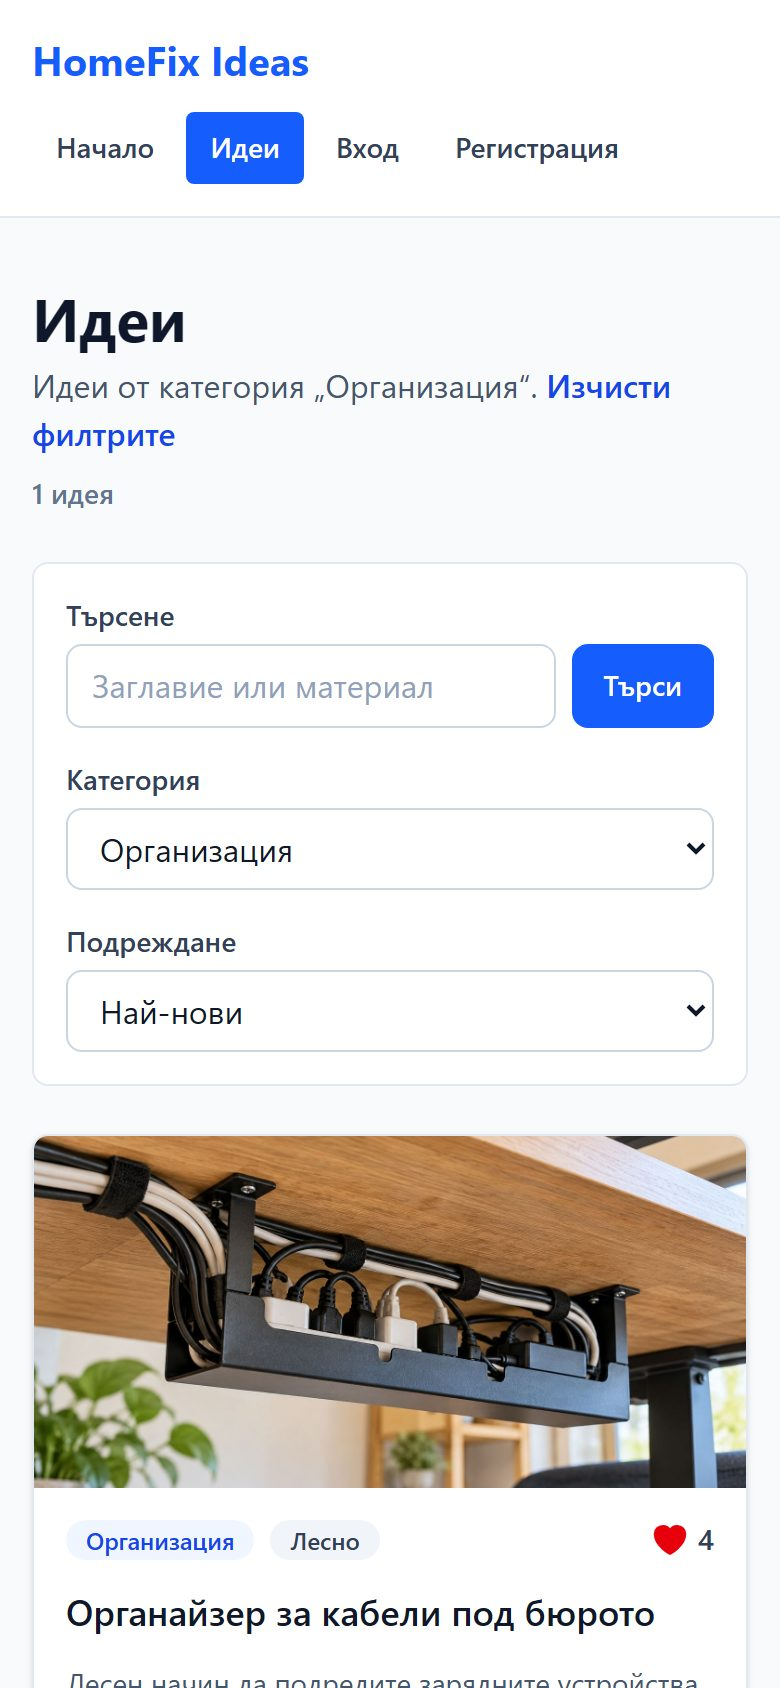
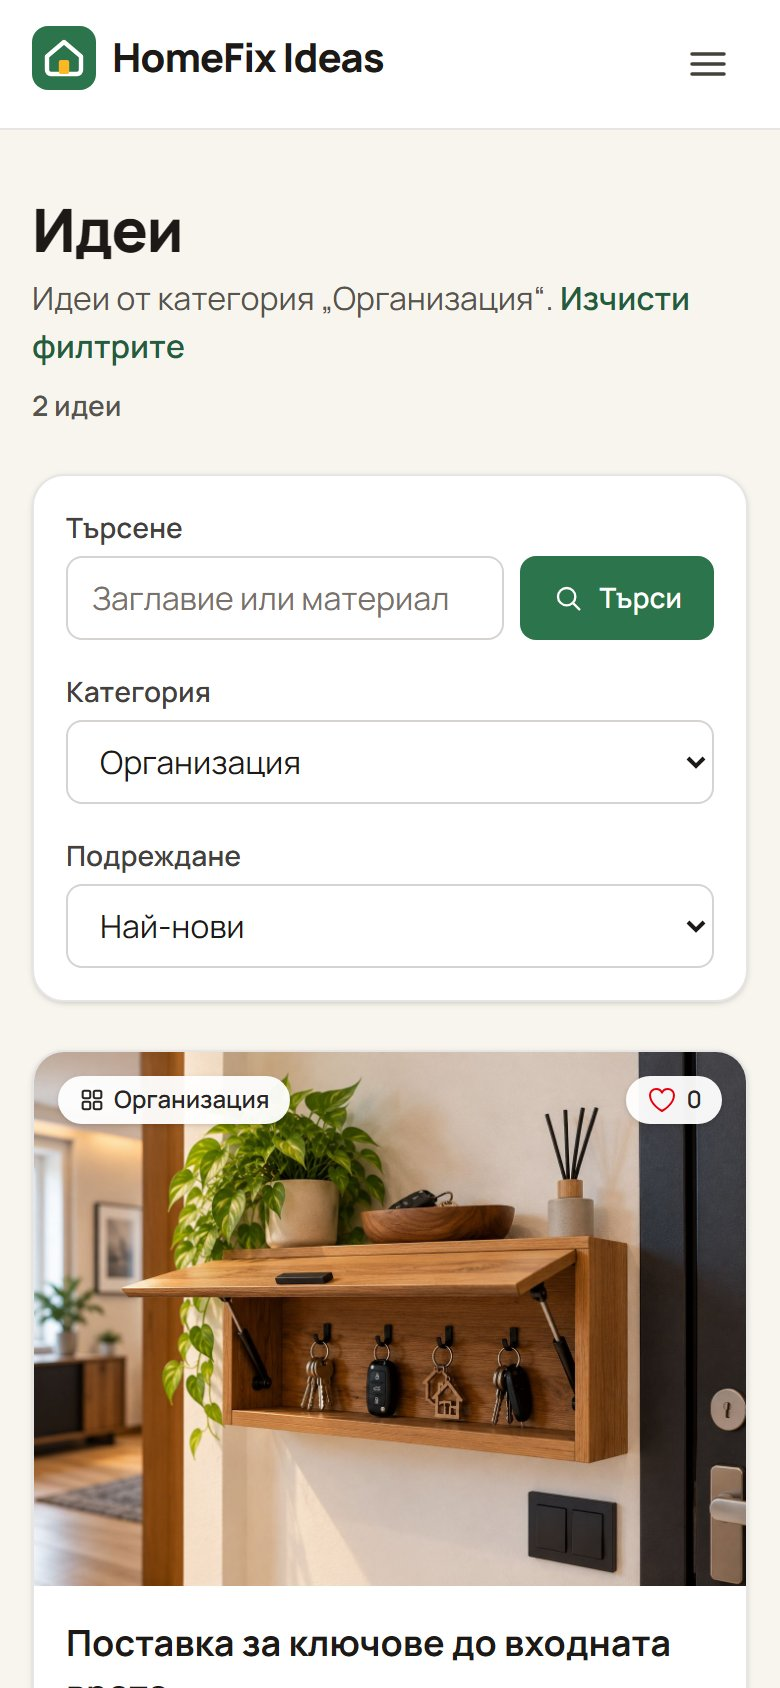
Update README and screenshots for the new design

diff --git a/README.md b/README.md
@@ -22,12 +22,12 @@ Open https://homefix-ideas-app.web.app. Nothing needs to be installed.
 
 You can also register a new account. All data is saved permanently (see [Data persistence](#data-persistence)). Because of that, please delete only ideas that you created yourself, so the demo data stays the same for other reviewers.
 
-**About the demo content:** the seed ideas, comments, likes and the two demo accounts are sample data written for this project. The photos of the seed ideas were generated with AI to illustrate the examples. Photos that users add through the app are uploaded by them.
+**About the demo content:** the seed ideas, comments, likes and the two demo accounts are sample data written for this project. The photos of the seed ideas were generated with AI to illustrate the examples. Photos that users add through the app are uploaded by them. The photo in the home page banner is one of the seed photos, stored as a static asset of the frontend.
 
 A short tour that covers the main requirements:
 
 1. **As a guest**, open „Идеи“ (Ideas). Try the search (for example `рафт`), the category filter and the sorting by „Най-харесвани“ (Most liked), move to page 2 and open an idea. Then open `/ideas/create` directly: you are redirected to the login page.
-2. **Log in as `peter@abv.bg`**. The header now shows „Добави идея“ (Add idea), „Моите идеи“ (My ideas), „Любими“ (Favorites) and a user menu. Opening `/login` now redirects to the home page.
+2. **Log in as `peter@abv.bg`**. The header now shows „Моите идеи“ (My ideas), „Любими“ (Favorites), the „Добави идея“ (Add idea) button and a user menu. On a phone or tablet, the links open from the menu button in the header. Opening `/login` now redirects to the home page.
 3. Open „Органайзер за кабели под бюрото“, an idea of peter. Peter sees „Редактирай“ (Edit) and „Изтрий“ (Delete) and no like button, because authors cannot like their own ideas.
 4. Open „Обновяване на стари кухненски шкафове“, an idea of john. The button shows „Харесано“ (Liked). Click it to remove the like, click it again, and add a comment.
 5. Use „Добави идея“ to create an idea with a photo. Then edit it, and finally delete it after the confirmation dialog.
@@ -67,7 +67,8 @@ A short tour that covers the main requirements:
 - „Любими“ (Favorites): the ideas the user has liked, most recently liked first
 - Route guards for private and guest-only pages, and a 404 page
 - Form validation with messages in Bulgarian, and loading, error and empty states on every page
-- Responsive layout for mobile, tablet and desktop
+- Responsive layout for mobile, tablet and desktop, with a collapsible menu on small screens
+- One visual system for all pages: a green and amber palette, one font, shared button, card and form styles, and inline SVG icons
 
 ## Tech stack
 
@@ -78,7 +79,7 @@ A short tour that covers the main requirements:
 | Routing | React Router 8 (`BrowserRouter`) |
 | Global state | React Context API (`AuthContext`) |
 | Forms | react-hook-form 7 |
-| Styling | Tailwind CSS 4 through an external stylesheet ([src/index.css](src/index.css)) |
+| Styling | Tailwind CSS 4 with design tokens and shared component classes in an external stylesheet ([src/index.css](src/index.css)); Manrope font from Google Fonts |
 | Dialogs | SweetAlert2 (error messages and delete confirmation) |
 | Backend | SoftUni Practice Server (Node.js REST API) as a Cloud Function for Firebase, 2nd gen |
 | File storage | Cloud Storage for Firebase (idea photos and the saved server data) |
@@ -243,7 +244,7 @@ Routes are defined in [App.jsx](src/App.jsx). Two pathless layout routes split t
 
 #### Catalog / List Page
 
-- **What data is displayed:** every idea is a card ([IdeaCard](src/components/idea-card/IdeaCard.jsx)) with the photo, or a placeholder when there is none. The card also shows the category and difficulty badges, the number of likes, the title, a short description, the estimated cost and a „Детайли“ (Details) button. The catalog shows 6 ideas per page and the total number of matching ideas.
+- **What data is displayed:** every idea is a card ([IdeaCard](src/components/idea-card/IdeaCard.jsx)) with the photo, or a placeholder when there is none. The card also shows the category (with its icon) and the number of likes over the photo, then the title, a short description, a color-coded difficulty badge, the estimated cost and a „Детайли“ (Details) link. The catalog shows 6 ideas per page and the total number of matching ideas.
 - **How the user interacts with the list:**
   - **Search** in the title and the materials, started with Enter or „Търси“ (Search).
   - **Filter** by one of six categories. The category cards on the home page open the catalog already filtered.
@@ -255,7 +256,7 @@ Routes are defined in [App.jsx](src/App.jsx). Two pathless layout routes split t
 #### Details Page
 
 - **How navigation is triggered:**
-  - The „Детайли“ button is a `<Link to={`/ideas/${_id}`}>`. It also passes the current list URL in the link state, so „← Назад“ (Back) returns to the same filtered page.
+  - The „Детайли“ link is a `<Link to={`/ideas/${_id}`}>`. CSS stretches it over the whole card, so a click on the photo or the title opens the idea too. It also passes the current list URL in the link state, so „Назад“ (Back) returns to the same filtered page.
   - `useNavigate()` is used after actions: after create or edit it opens the idea, and after delete it opens the catalog.
 - **What data is received via route parameters:** `ideaId`. The page loads `GET /data/ideas/:ideaId`, the likes of the idea (`where=ideaId="..."`) and its comments with their authors (`load=author=_ownerId:users`). An unknown id shows „Идеята не съществува или не може да бъде заредена.“ (The idea does not exist or cannot be loaded).
 
@@ -355,7 +356,7 @@ All rules are in [src/utils/validation.js](src/utils/validation.js). Messages ar
 How the forms work:
 
 - **Library:** react-hook-form manages them.
-- **Binding:** `register()` connects each input to the form state through React synthetic `onChange` and `onBlur` handlers. The filter selects in `IdeaFilters` are fully controlled inputs, with `value` taken from the URL and an `onChange` handler. Other synthetic events in use: `onSubmit`, `onClick` (like, delete, pagination, user menu) and a custom `onChange` for the photo input.
+- **Binding:** `register()` connects each input to the form state through React synthetic `onChange` and `onBlur` handlers. The filter selects in `IdeaFilters` are fully controlled inputs, with `value` taken from the URL and an `onChange` handler. Other synthetic events in use: `onSubmit`, `onClick` (like, delete, pagination, user menu, mobile navigation menu) and a custom `onChange` for the photo input.
 - **When fields are validated:** the login, register and idea forms use `mode: 'onTouched'`, which shows a field's error after the user leaves it. The comment form validates on submit, so an empty box that the user only clicks does not show an error. `noValidate` turns off the browser's English messages. Invalid fields get `aria-invalid` and a red border.
 - **Duplicate submits:** the submit button is disabled while the request is pending.
 
@@ -365,7 +366,7 @@ How the forms work:
 
 | Hook | Where |
 |---|---|
-| `useState` | page data, loading and error flags, menu state, photo preview |
+| `useState` | page data, loading and error flags, the user menu and the mobile navigation menu, photo preview |
 | `useEffect` | data loading on every page, document listeners in `UserMenu`, photo preview cleanup in `IdeaForm` |
 | `useContext` | `AuthContext` in 11 components |
 | `useRef` | `UserMenu` (closes the menu on a click outside) |
@@ -415,12 +416,17 @@ Two more examples:
 
 #### Component Styling
 
-- **Approach:** components are styled with **Tailwind CSS 4** utility classes, compiled from the external stylesheet [src/index.css](src/index.css).
-- **The stylesheet:** it also holds base styles and the shared form classes (`.form-label`, `.form-field`) that every form uses.
-- **Visual rules:**
-  - a limited palette: blue for primary actions, slate for text and backgrounds, red for errors and likes;
-  - hover, focus-visible, active and disabled states on all controls;
-  - responsive grids with 1, 2 or 3 columns.
+- **Approach:** components are styled with **Tailwind CSS 4**, compiled from the external stylesheet [src/index.css](src/index.css). The stylesheet is the single place for the look of the application:
+  - **Design tokens** in `@theme`: the `brand` (green) and `accent` (amber) colors, the page background and the font. Tailwind turns them into classes such as `bg-brand-600`, so changing a color means changing one line.
+  - **Shared component classes** in `@layer components`: `.btn` with `.btn-primary`, `.btn-accent`, `.btn-secondary` and `.btn-danger`, plus `.link`, `.card`, `.badge`, `.alert-error`, `.page-title`, `.section-title`, `.form-label` and `.form-field`. Buttons, cards and fields look the same on every page, and their styles are not repeated in the components.
+  - **Base styles:** one `:focus-visible` outline for every link, button and field. SweetAlert2 dialogs get the same colors through the library's CSS variables.
+- **Visual rules** (they follow the SoftUni "Design Best Practices" list):
+  - **Palette:** green for primary actions and links, and amber only for the main call to action („Добави идея“, „Разгледай идеите“). Warm neutral grays are used for text and backgrounds, and red for errors, delete and likes. The text colors were checked for a contrast of at least 4.5:1 (WCAG AA).
+  - **Typography:** one font, Manrope, with Cyrillic support. It is loaded from Google Fonts, and the system font is the fallback.
+  - **Icons:** a small set of inline SVG icons in [Icon.jsx](src/components/icon/Icon.jsx), without an icon library. Each category has its own icon.
+  - **Feedback:** hover, focus-visible, active and disabled states on all controls.
+  - **Responsive layout:** grids with 1, 2 or 3 columns. Below 1024 px the navigation collapses behind a menu button ([Header.jsx](src/components/layout/Header.jsx)).
+- **Small reusable UI parts:** [Logo](src/components/logo/Logo.jsx), [Icon](src/components/icon/Icon.jsx), [IdeaImage](src/components/idea-image/IdeaImage.jsx) (the photo or a placeholder), [CategoryBadge](src/components/category-badge/CategoryBadge.jsx) and [DifficultyBadge](src/components/difficulty-badge/DifficultyBadge.jsx). The idea card and the details page share them.
 
 ### 10. Typical User Flow
 
@@ -492,8 +498,9 @@ homefix-ideas/
 ├── src/                          # React application
 │   ├── main.jsx                  # entry point, BrowserRouter
 │   ├── App.jsx                   # AuthProvider and all routes
-│   ├── index.css                 # Tailwind CSS, base styles, shared form classes
+│   ├── index.css                 # Tailwind CSS: design tokens, base styles, shared component classes
 │   ├── firebase.js               # Firebase app and Storage (emulator in development)
+│   ├── assets/                   # static images bundled by Vite (home page banner photo)
 │   ├── components/               # one kebab-case folder per component
 │   │   ├── layout/               # Layout, Header, UserMenu, Footer
 │   │   ├── guards/               # PrivateRoute, GuestRoute
@@ -501,11 +508,13 @@ homefix-ideas/
 │   │   ├── my-ideas/ favorite-ideas/ login/ register/ not-found/        # pages
 │   │   ├── idea-form/ idea-card/ idea-list/ idea-filters/ pagination/   # reusable
 │   │   ├── idea-likes/ idea-comment-create/ idea-comment-list/          # reusable
-│   │   └── field-error/ heart-icon/ skeleton-card/                      # small UI parts
+│   │   ├── idea-image/ category-badge/ difficulty-badge/                # reusable
+│   │   └── field-error/ heart-icon/ skeleton-card/ icon/ logo/          # small UI parts
 │   ├── contexts/                 # AuthContext
 │   ├── hooks/                    # useLocalStorage, useIdeaFilters
 │   ├── services/                 # request.js + one service per collection, imageService
 │   └── utils/                    # validation rules, idea options, list helpers, formatting
+├── public/favicon.svg            # browser tab icon, the same mark as the logo
 ├── functions/                    # backend: Cloud Function (separate Node.js project)
 │   ├── index.js                  # HTTP function "api" and data persistence
 │   └── server/server.js          # SoftUni Practice Server, adapted for Cloud Functions
@@ -522,6 +531,7 @@ homefix-ideas/
 - **Likes and comments are separate collections.** Liking an idea creates a record of the current user and never changes the idea of another user.
 - **List state lives in the URL** (`useSearchParams`). It survives a refresh, the Back button and sharing a link, and it needs no extra React state.
 - **Every request with a token handles an expired session the same way** with `isInvalidTokenError()` and `sessionExpiredHandler()`.
+- **One place for the look:** colors, the font and the shared button, card and form classes are defined once in `src/index.css`. Components use the names (`btn btn-primary`, `bg-brand-600`) and do not repeat the styles.
 
 ## Requirements coverage
 
@@ -541,7 +551,7 @@ How the project meets the React Retake Exam specification:
 | User interaction | likes, comments, favorites |
 | Hooks and lifecycle | see [Functional Guide, section 9](#9-react-specific-techniques) |
 | Context API | `AuthContext` used by 11 components |
-| Folder structure and external CSS | component folders in [src/components](src/components); styling in [src/index.css](src/index.css) |
+| Folder structure and external CSS | component folders in [src/components](src/components); design tokens and shared component classes in the external stylesheet [src/index.css](src/index.css) |
 | Documentation | this README |
 | Deployed frontend and backend | Firebase Hosting and the Cloud Function `api`; data persists in Cloud Storage |
 | Git history | public repository, more than 75 commits on more than 25 different days (July to November 2026) |
